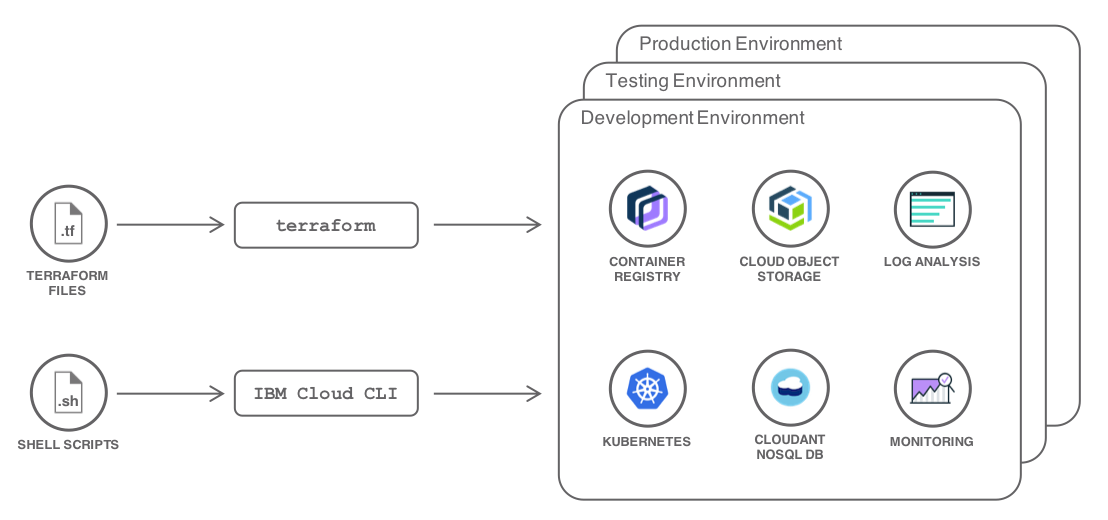
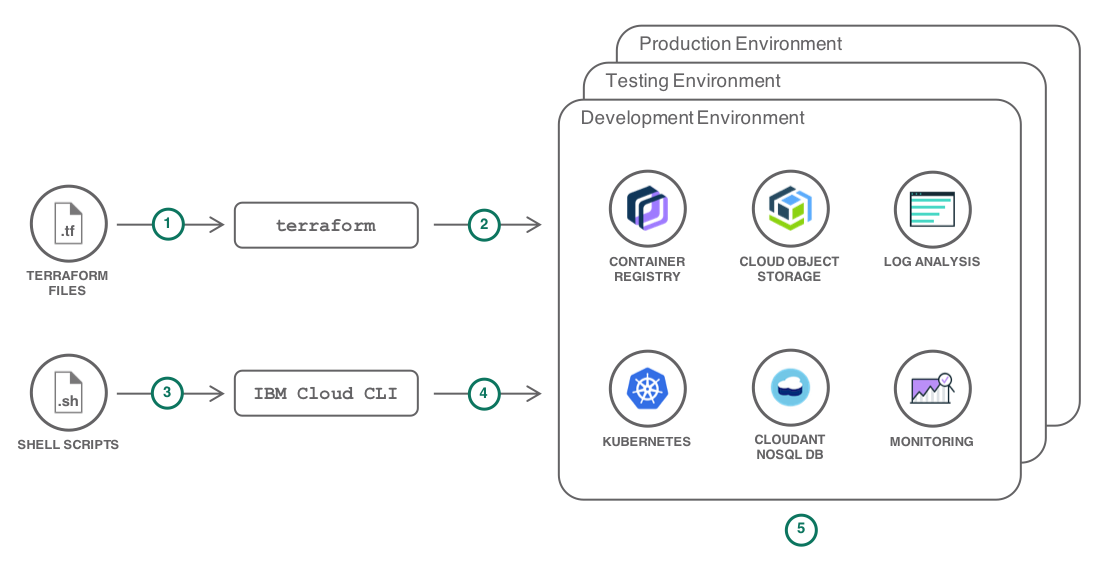
steps

diff --git a/plan-create-update-deployments.md b/plan-create-update-deployments.md
@@ -24,28 +24,31 @@ This tutorial introduces tools to automate the creation and maintenance of multi
 ## Objectives
 {: #objectives}
 
-* Define an environment we want to deploy/automate
+* Define an environment to deploy
 * Overview of the available tools
-* Review the Terraform files and scripts needed to deploy such an environment
-  * with terraform and other tools as terraform can't do everything
-* Configure Terraform for {{site.data.keyword.Bluemix_notm}}
+* Write scripts to automate the deployment
+* Configure the tools for your account
 * Deploy this environment in your account
 
 ## Products
 {: #products}
 
 This tutorial uses the following products:
-* [IBM Cloud provider for Terraform]()
-* [{{site.data.keyword.containershort_notm}}]()
-* [IAM]()
+* [IBM Cloud provider for Terraform](https://ibm-cloud.github.io/tf-ibm-docs/index.html)
+* [{{site.data.keyword.containershort_notm}}](https://console.bluemix.net/containers-kubernetes/catalog/cluster)
+* [Identity and Access Management](https://console.bluemix.net/iam/#/users)
 * [{{site.data.keyword.Bluemix_notm}} command line interface - the `bx` CLI](https://console.bluemix.net/docs/cli/index.html)
+* [HashiCorp Terraform](https://www.terraform.io/)
 
 <p style="text-align: center;">
 ![](./images/solution26-plan-create-update-deployments/architecture.png)
 </p>
 
-1. The user does this
-2. Then that
+1. A set of Terraform files are created to describe the target infrastructure as code.
+1. An operator uses `terraform apply` to provision the environments.
+1. Shell scripts are written to complete the configuration of the environments.
+1. The operator runs the scripts against the environments
+1. The environments are fully configured, ready to be used.
 
 ## Before you begin
 {: #prereqs}
